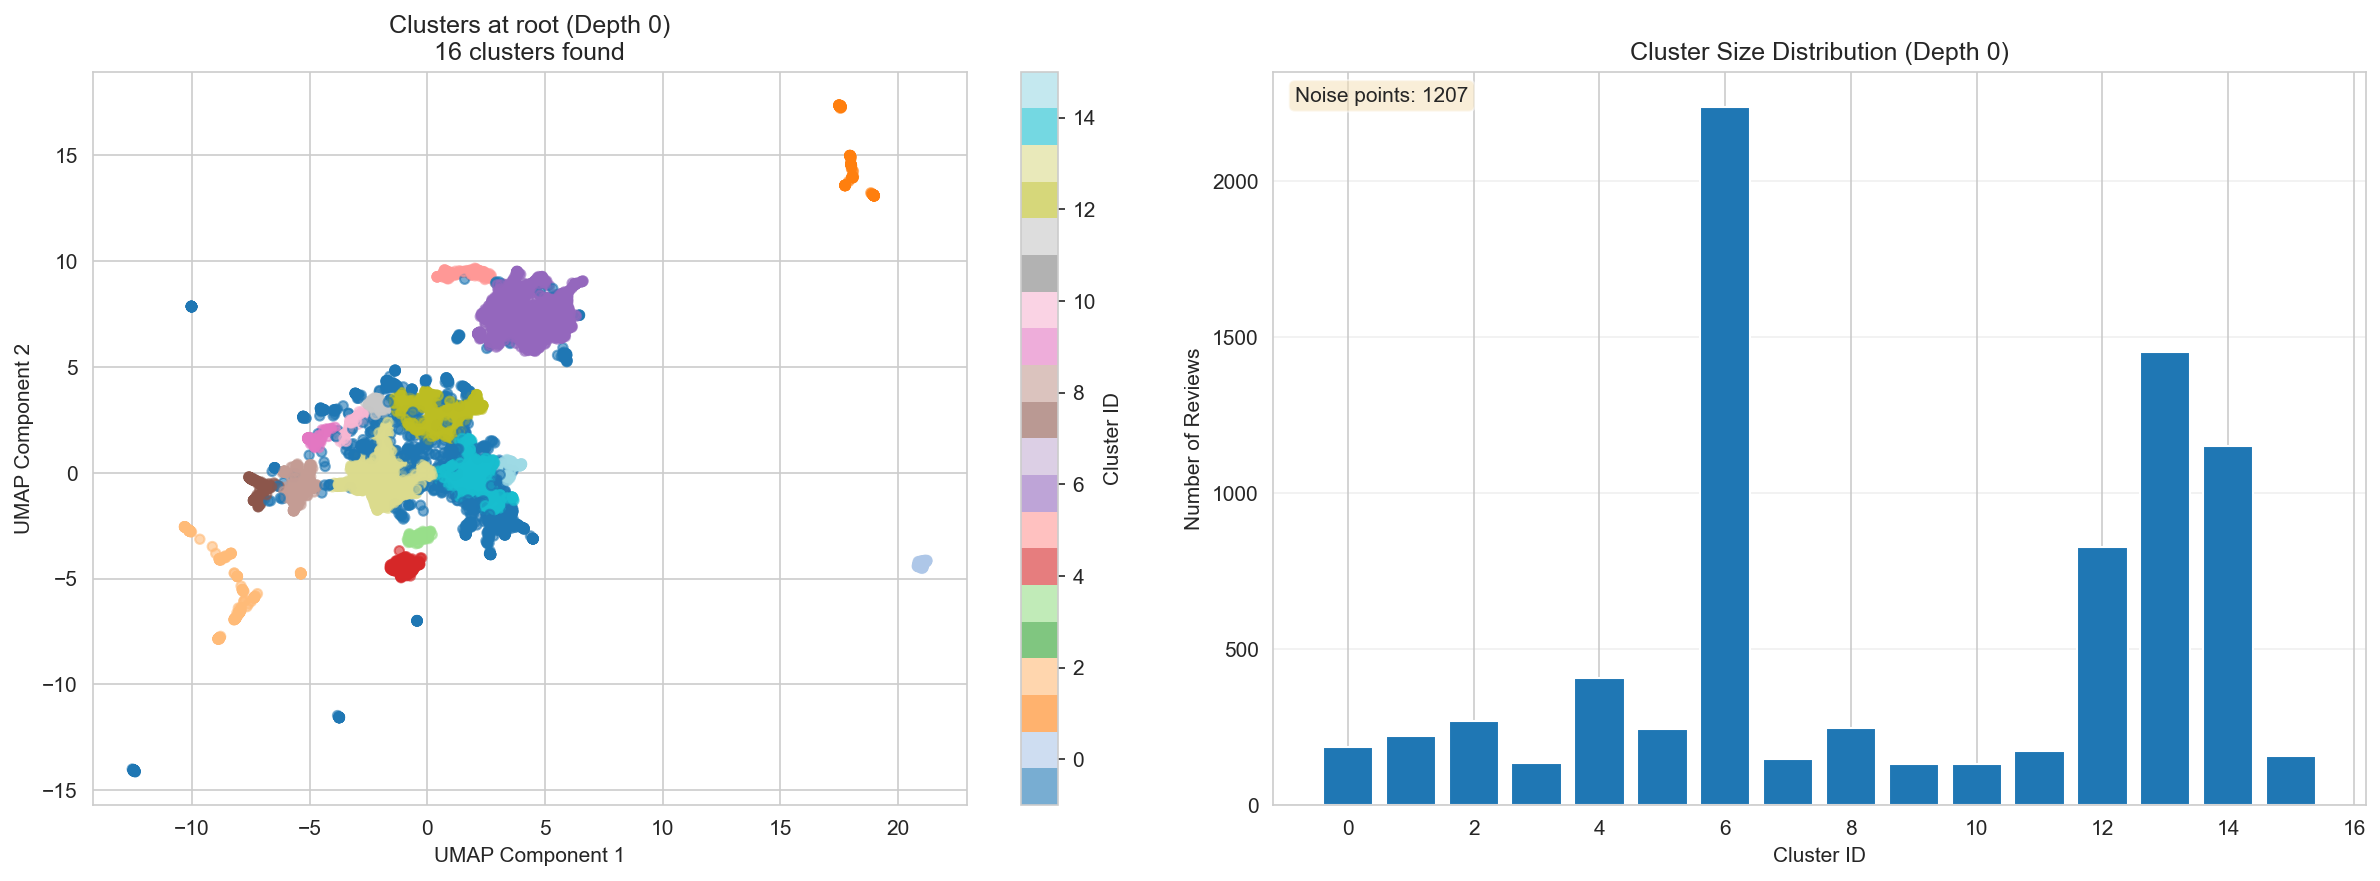
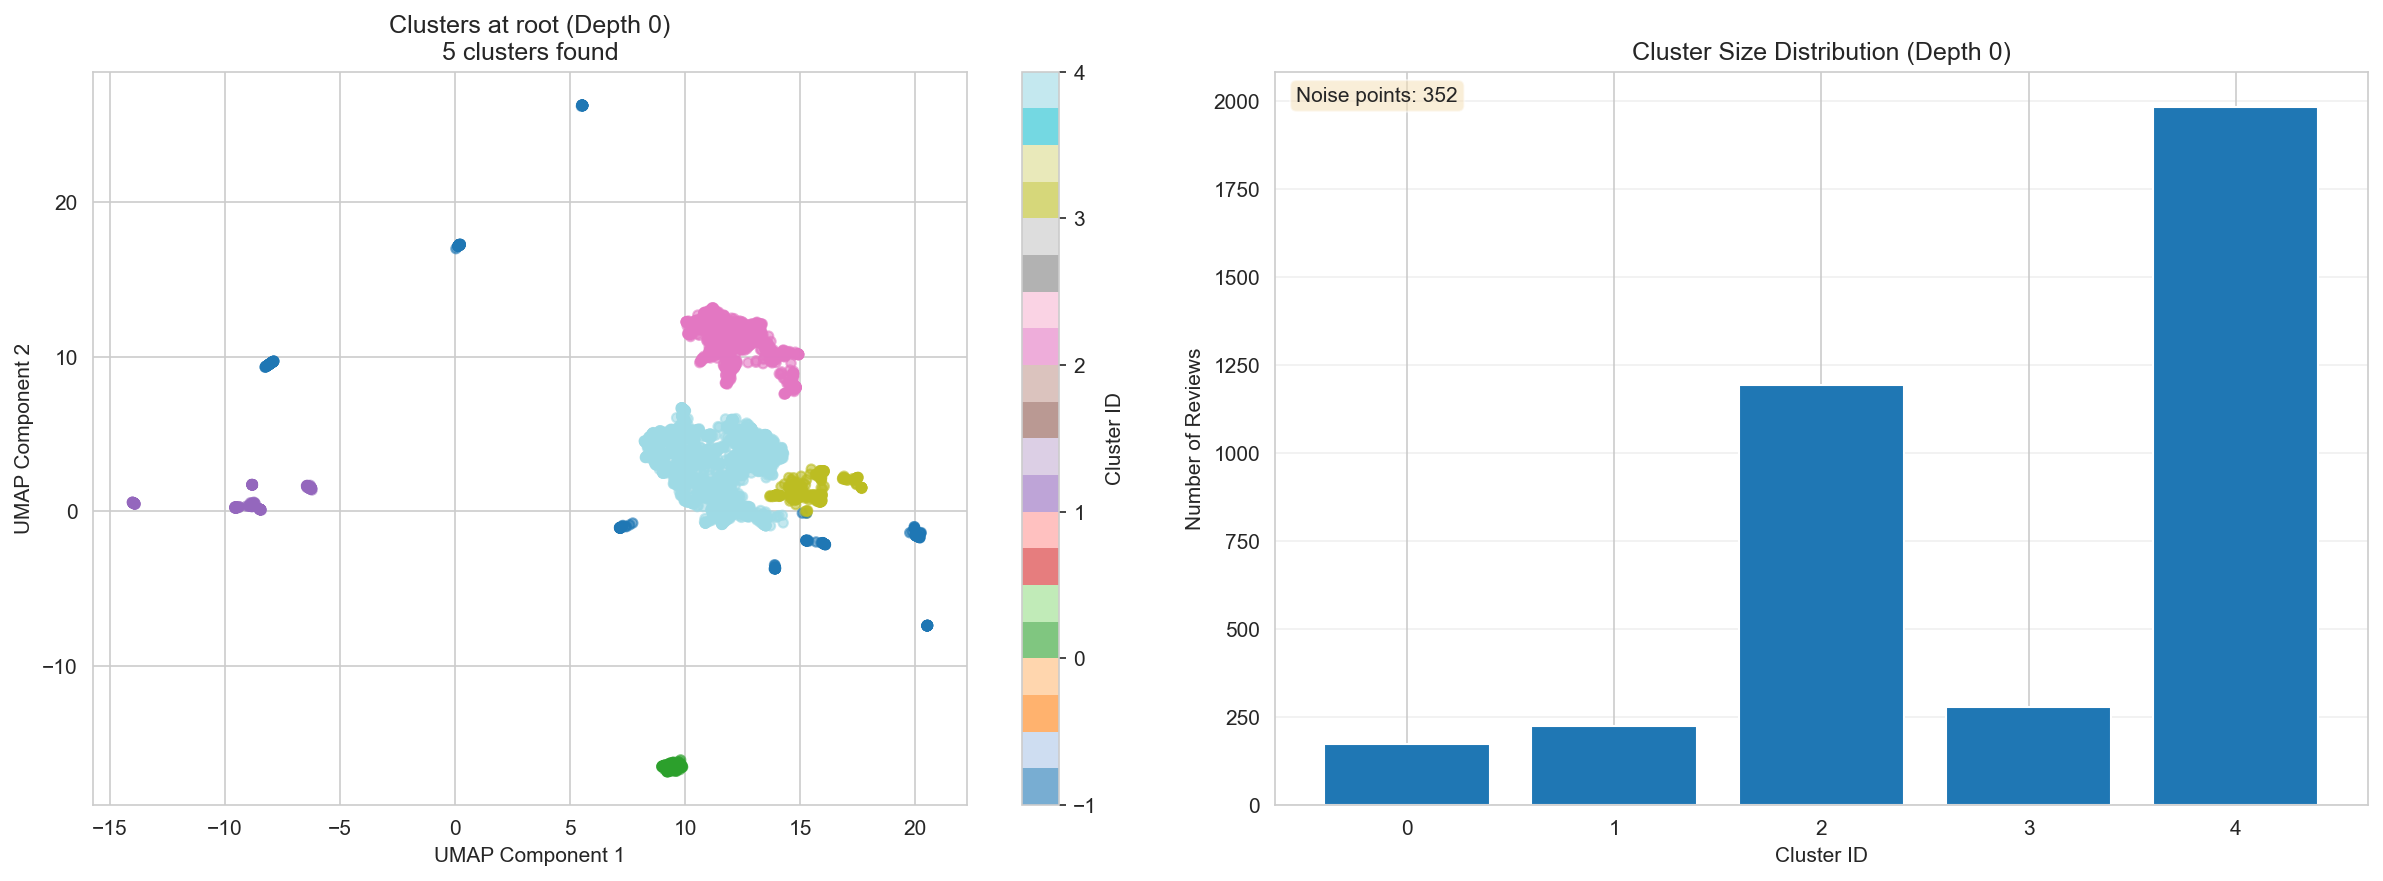
simplify

diff --git a/src/pipelines/umap_clustering.py b/src/pipelines/umap_clustering.py
@@ -29,7 +29,7 @@ class RecursiveClusteringPipeline:
     Implements the approach from the article for customer segmentation.
     """
 
-    def __init__(self, config: Settings, umap_params: Optional[Dict[str, Any]] = None, hdbscan_params: Optional[Dict[str, Any]] = None, recursive_depth: int = 1, min_cluster_size_pct: float = 0.01, local_mode: bool = False, output_dir: str = "./cluster_output"):
+    def __init__(self, config: Settings, umap_params: Optional[Dict[str, Any]] = None,  recursive_depth: int = 1, min_cluster_size_pct: float = 0.02, min_sample_pct: float = 0.003, local_mode: bool = False, output_dir: str = "./cluster_output"):
         self.config = config
         self.sql_client = SQLClient(config)
         self.cosmos_client = CosmosClient(config)
@@ -38,19 +38,13 @@ class RecursiveClusteringPipeline:
         self.umap_params = umap_params or {
             'n_neighbors': 15,
             'n_components': 2,
-            'metric': 'cosine',
-            'random_state': 42
+            'metric': 'cosine'
         }
         
-        # Default HDBSCAN parameters
-        self.hdbscan_params = hdbscan_params or {
-            'min_cluster_size': 500,
-            'min_samples': 10,
-            'metric': 'euclidean'
-        }
         
         self.recursive_depth = recursive_depth
         self.min_cluster_size_pct = min_cluster_size_pct
+        self.min_sample_pct = min_sample_pct # Minimum samples as percentage of data for HDBSCAN
         self.cluster_hierarchy = {}
         self.local_mode = local_mode
         self.output_dir = output_dir
@@ -130,11 +124,12 @@ class RecursiveClusteringPipeline:
         reducer = umap.UMAP(**self.umap_params)
         return reducer.fit_transform(embeddings)
 
-    def _apply_hdbscan(self, reduced_data: np.ndarray, min_cluster_size: Optional[int] = None) -> Tuple[np.ndarray, hdbscan.HDBSCAN]:
+    def _apply_hdbscan(self, reduced_data: np.ndarray) -> Tuple[np.ndarray, hdbscan.HDBSCAN]:
         """Apply HDBSCAN clustering and return labels + clusterer object."""
-        params = self.hdbscan_params.copy()
-        if min_cluster_size:
-            params['min_cluster_size'] = min_cluster_size
+        params = {}
+        params['min_samples'] = int(len(reduced_data) * self.min_sample_pct)
+        params['min_cluster_size'] = int(len(reduced_data) * self.min_cluster_size_pct)
+        params["metric"] = "euclidean"
             
         logger.info(f"Applying HDBSCAN with params: {params}")
         clusterer = hdbscan.HDBSCAN(**params)
@@ -308,7 +303,7 @@ class RecursiveClusteringPipeline:
 
     def _recursive_cluster(self, embeddings: np.ndarray, indices: np.ndarray, parent_label: str = "root", current_depth: int = 0, df: pd.DataFrame = None) -> Dict[int, str]:
 
-        if current_depth >= self.recursive_depth or len(indices) < self.hdbscan_params['min_cluster_size']:
+        if current_depth >= self.recursive_depth or len(indices) <int(len(indices) * self.min_cluster_size_pct):
             return {idx: parent_label for idx in indices}
         
         logger.info(f"Clustering {len(indices)} points at depth {current_depth} (parent: {parent_label})")
@@ -322,11 +317,8 @@ class RecursiveClusteringPipeline:
             logger.info(f"UMAP trustworthiness at depth {current_depth}: {umap_metrics['trustworthiness']:.3f}")
 
         # Apply HDBSCAN with dynamic min_cluster_size based on subset size
-        min_size = max(
-            self.hdbscan_params['min_cluster_size'],
-            int(len(indices) * self.min_cluster_size_pct)
-        )
-
+        min_size =  int(len(indices) * self.min_cluster_size_pct)
+        
         labels, clusterer = self._apply_hdbscan(reduced_data, min_cluster_size=min_size)
         
         n_clusters = len(set(labels)) - (1 if -1 in labels else 0)
@@ -436,7 +428,13 @@ class RecursiveClusteringPipeline:
         # Convert 'vector' column (list of lists) to a 2D numpy array
         embeddings_list = []
 
-        for vec in df['vector']:
+        if self.local_mode:
+            from tqdm import tqdm
+            vector_iter = tqdm(df['vector'], desc="Parsing embeddings")
+        else:
+            vector_iter = df['vector']
+
+        for vec in vector_iter:
 
             float_vec = np.array(ast.literal_eval(vec))            
             embeddings_list.append(float_vec)
@@ -517,9 +515,10 @@ def main():
     parser.add_argument("--start-date", type=str, help="Start date (YYYY-MM-DD).")
     parser.add_argument("--end-date", type=str, help="End date (YYYY-MM-DD).")
     parser.add_argument("--limit", type=int, default=None, help="Max records to cluster.")
-    parser.add_argument("--recursive-depth", type=int, default=1, help="How many levels to recurse (1 = no recursion).")
-    parser.add_argument("--min-cluster-size", type=int, default=100, help="Minimum cluster size for HDBSCAN.")
-    parser.add_argument("--min-cluster-pct", type=float, default=0.01, help="Min cluster size as percentage of data.")
+    parser.add_argument("--recursive-depth", type=int, default=5, help="How many levels to recurse (1 = no recursion).")
+    #parser.add_argument("--min-cluster-size", type=int, default=20, help="Minimum cluster size for HDBSCAN.")
+    parser.add_argument("--min-cluster-pct", type=float, default=0.02, help="Min cluster size as percentage of data.")
+    parser.add_argument("--min-sample-pct", type=float, default=0.003, help="Min samples as percentage of data for HDBSCAN.")
     parser.add_argument("--n-neighbors", type=int, default=15, help="UMAP n_neighbors parameter.")
     parser.add_argument("--n-components", type=int, default=2, help="UMAP n_components (dimensions).")
     parser.add_argument("--local", action='store_true', help="Enable local mode with visualizations and analysis.")
@@ -542,18 +541,13 @@ def main():
         'random_state': 42
     }
 
-    hdbscan_params = {
-        'min_cluster_size': args.min_cluster_size,
-        'min_samples': 10,
-        'metric': args.hdbscan_metric
-    }
 
     pipeline = RecursiveClusteringPipeline(
         config,
         umap_params=umap_params,
-        hdbscan_params=hdbscan_params,
         recursive_depth=args.recursive_depth,
         min_cluster_size_pct=args.min_cluster_pct,
+        min_sample_pct=args.min_sample_pct,
         local_mode=args.local,
         output_dir=args.output_dir
     )

diff --git a/src/data_access/cosmos_client.py b/src/data_access/cosmos_client.py
@@ -173,7 +173,7 @@ class CosmosClient:
             self.connect()
 
         query = "SELECT feedback_id, vector, source, feedback_text FROM embeddings WHERE 1=1"
-        params = []
+      
         if source_filter:
             query += f" AND source = '{source_filter}'"
 
@@ -186,15 +186,15 @@ class CosmosClient:
 
         if print_query:
             print("SQL Query:", query)
-            with self.conn.cursor() as cursor:
-                cursor.execute(query)
-                results = cursor.fetchall()
-                # Preserve data types from DB (e.g., vector as list of floats)
-                return [
-                (
-                    row[0],  # feedback_id (str)
-                    row[1],
-                    row[2]   # source (str)
-                )
-                for row in results
-                ]
+        with self.conn.cursor() as cursor:
+            cursor.execute(query)
+            results = cursor.fetchall()
+            # Preserve data types from DB (e.g., vector as list of floats)
+            return [
+            (
+                row[0],  # feedback_id (str)
+                row[1],
+                row[2]   # source (str)
+            )
+            for row in results
+            ]
